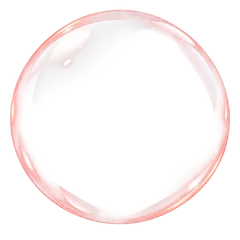
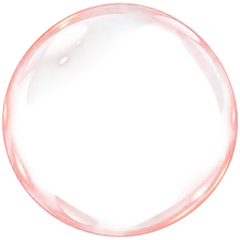
Ferme le jour entre l'orbe de vie et son anneau
L'orbe paraissait trop petite pour son anneau : une bande sombre faisait
le tour, comme un jour mal ajusté. Deux causes qui s'additionnaient, et
il fallait les deux.

La coque de verre portait 10 px de vide transparent de chaque côté sur
240 — le dessin n'occupait pas son image. Ramenée à 76 px, la sphère
s'arrêtait donc 3 px avant le bord. L'image est recadrée sur son dessin :
elle remplit désormais son cadre, ce que tout code qui l'affiche suppose
déjà. Corriger en CSS aurait voulu dire trois nombres magiques — une
échelle horizontale, une verticale, un décalage — accrochés à un fichier
qu'on aurait pu remplacer sans y penser.

La vignette, elle, devenait opaque dès 52 % du rayon et montait à 55 % de
noir : elle mangeait le bord même une fois la coque bien dimensionnée.
Elle est rentrée à 68 % et plafonnée à 42 %, ce qui garde le volume de la
sphère sans dessiner d'anneau sombre.

Vérifié dans l'appli, à trois niveaux de vie — pleine, à moitié, à zéro —
parce que la hauteur du liquide change et que le bord doit tenir aux
trois.

Claude-Session: https://claude.ai/code/session_01DJVJHG2G6wK3CcS9EGerhK

Changed region(s): [[0.0, 0.0, 0.9917, 0.9917], [0.2625, 0.2333, 0.2917, 0.2917], [0.7875, 0.2333, 0.8167, 0.2625]]

diff --git a/src/ui/theme.css b/src/ui/theme.css
@@ -154,12 +154,20 @@ button:focus-visible { outline: 2px solid var(--accent); outline-offset: 2px; }
  * dedans — plus le reflet en dégradé, que la coque porte désormais
  * elle-même. Seule la vignette reste en CSS : elle assombrit le bord quel
  * que soit ce qu'il y a derrière.
+ *
+ * La vignette est RENTRÉE (transparente jusqu'à 68 %, et jamais tout à fait
+ * noire) parce qu'elle mangeait le bord. Avec l'ancienne — opaque dès 52 % —
+ * la coque de verre s'arrêtait dans une bande sombre, et l'orbe paraissait
+ * trop petite pour son anneau : un jour visible tout autour. La coque, elle,
+ * a été recadrée sur son dessin (elle portait 10 px de vide transparent de
+ * chaque côté sur 240, soit 3 px de trop sur une orbe de 76). Les deux
+ * défauts s'additionnaient ; il fallait corriger les deux.
  */
 .jg-orb-glass {
   position: absolute; inset: 0; border-radius: 50%; pointer-events: none;
   background:
     var(--jg-orb-verre, linear-gradient(transparent, transparent)) center / 100% 100% no-repeat,
-    radial-gradient(ellipse 90% 90% at 50% 50%, transparent 52%, rgba(0, 0, 0, .55) 100%);
+    radial-gradient(ellipse 100% 100% at 50% 50%, transparent 68%, rgba(0, 0, 0, .42) 100%);
 }
 .jg-orb-ring {
   position: relative; padding: 5px; border-radius: 50%;
